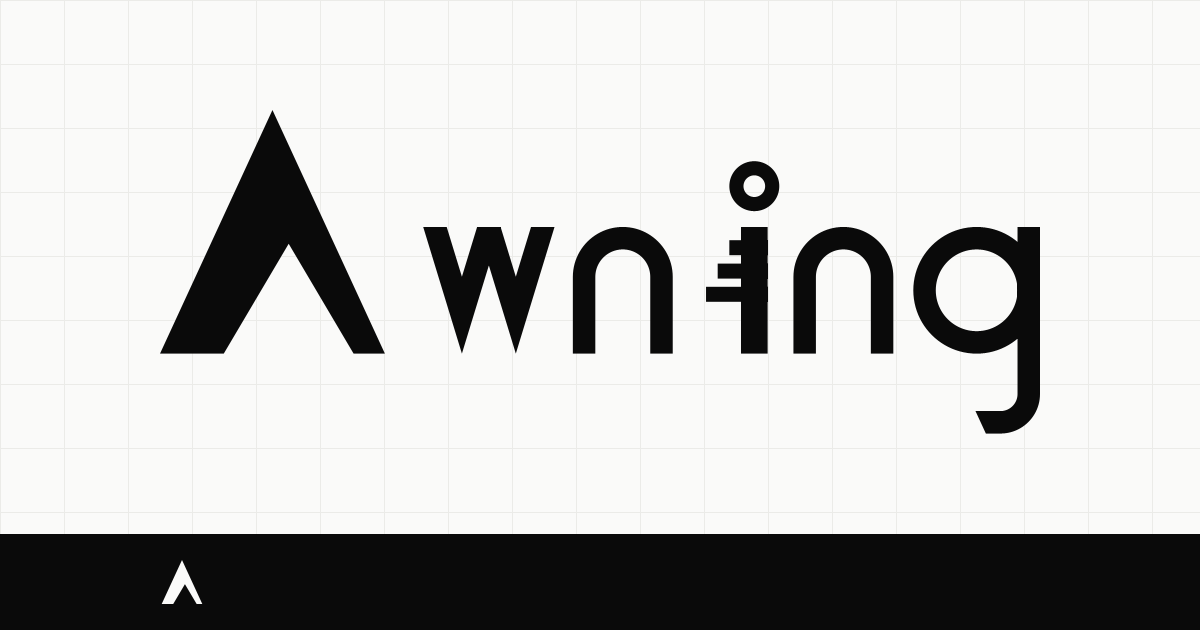
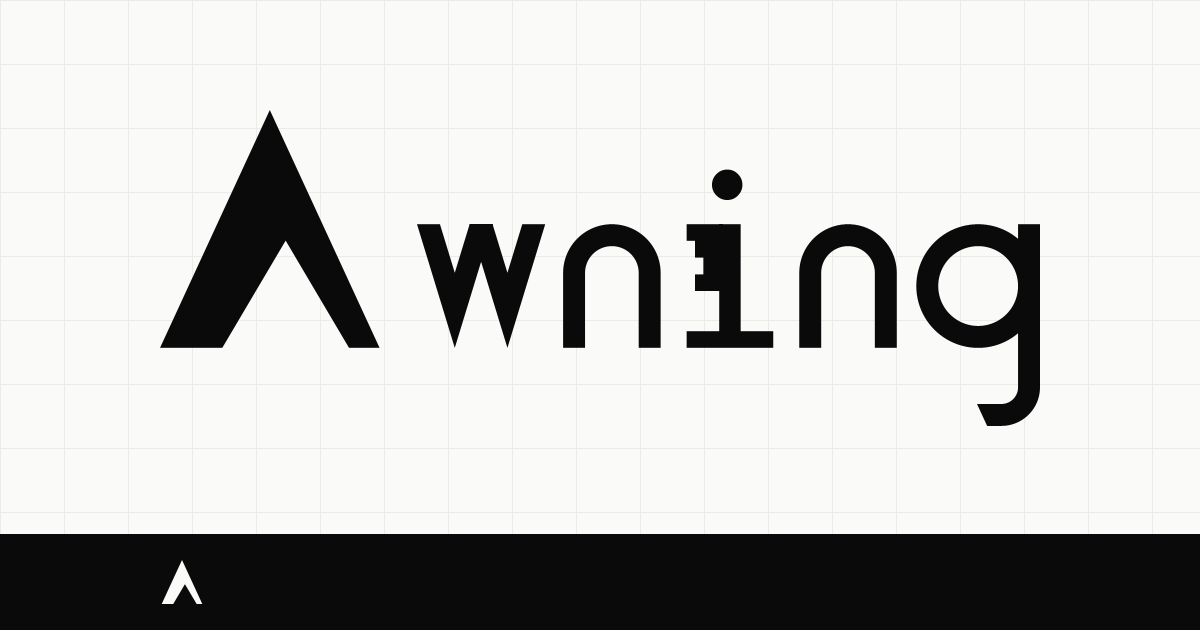
feat(brand): use the supplied key for the i
Replaces the key I drew with the one from awning-bit-jag-4t: a tittle for the
bow, a jagged bit, a blade on a flat foot. The bit's teeth alternate in and out,
which is what a key bit actually does — mine were three prongs stepping in one
direction, which reads as a stepped serif no matter how much room it gets.

Kept as artwork rather than code. brand/letter-i-key.svg is the drawing, and
make-logotype.mjs only fits it: scales its x-height to match the rest of the
lowercase, which lands its stem within a unit of the shared stem width because
it was drawn to these proportions already, and sets it on the shared baseline.
Nothing else is touched, so the key stays editable in a design tool.

Split into three paths rather than kept as one with three subpaths. The bit and
the blade overlap, and the two fill rules disagree about an overlap inside a
single path: nonzero fills it, even-odd punches a hole. As separate paths they
union under either rule, which matters because this repo has a renderer that is
not a browser. Verified numerically rather than by eye — a scan for interior
pixels below full coverage found none, in the glyph or the whole lockup, so
there is no hairline where the two abut either.

The key's baseline and x-height are written down twice, in the SVG's comment and
as constants in the generator, because neither can be recovered from the outline:
the tittle sits above the x-height and nothing marks the baseline. A test asserts
[…]

diff --git a/src/components/Brand.tsx b/src/components/Brand.tsx
@@ -36,7 +36,7 @@ export function LogoMark({ className }: BrandArtProps) {
  * The name drawn as letters, with the mark standing in for the capital A, and
  * the i drawn as a key.
  *
- * Ratio 2.72. The g's descender is the bottom 25% of the box, so
+ * Ratio 2.79. The g's descender is the bottom 25% of the box, so
  * the word sits high inside it: anything vertically centring this has to
  * compensate. See .logo-type in SiteNav.css.
  */
@@ -44,7 +44,7 @@ export function Logotype({ className }: BrandArtProps) {
   return (
     <svg
       className={className}
-      viewBox="0 0 1057.15 388.69"
+      viewBox="0 0 1082.69 388.69"
       fill="currentColor"
       aria-hidden="true"
       focusable="false"
@@ -53,14 +53,12 @@ export function Logotype({ className }: BrandArtProps) {
       <path d="M316.18 140.5L362.68 292.69L409.18 140.5L380.95 140.5L362.68 200.29L344.41 140.5Z" />
       <path d="M380.95 140.5L427.45 292.69L473.95 140.5L445.72 140.5L427.45 200.29L409.18 140.5Z" />
       <path d="M495.95 292.69L495.95 200.5C495.95 167.36 522.81 140.5 555.95 140.5C589.09 140.5 615.95 167.36 615.95 200.5L615.95 292.69L588.95 292.69L588.95 200.5C588.95 182.27 574.18 167.5 555.95 167.5C537.72 167.5 522.95 182.27 522.95 200.5L522.95 292.69Z" />
-      <path d="M713.95 61.5C730.52 61.5 743.95 74.93 743.95 91.5C743.95 108.06 730.52 121.5 713.95 121.5C697.38 121.5 683.95 108.06 683.95 91.5C683.95 74.93 697.38 61.5 713.95 61.5ZM713.95 78.5C706.77 78.5 700.95 84.32 700.95 91.5C700.95 98.67 706.77 104.5 713.95 104.5C721.13 104.5 726.95 98.67 726.95 91.5C726.95 84.32 721.13 78.5 713.95 78.5Z" />
-      <path d="M683.95 156.5L729.95 156.5L729.95 174.5L683.95 174.5Z" />
-      <path d="M669.95 184.5L729.95 184.5L729.95 202.5L669.95 202.5Z" />
-      <path d="M655.95 212.5L729.95 212.5L729.95 230.5L655.95 230.5Z" />
-      <path d="M697.95 140.5L729.95 140.5L729.95 292.69L697.95 292.69Z" />
-      <path d="M760.95 292.69L760.95 200.5C760.95 167.36 787.81 140.5 820.95 140.5C854.09 140.5 880.95 167.36 880.95 200.5L880.95 292.69L853.95 292.69L853.95 200.5C853.95 182.27 839.18 167.5 820.95 167.5C802.72 167.5 787.95 182.27 787.95 200.5L787.95 292.69Z" />
-      <path d="M981.05 140.5C1023.08 140.5 1057.15 174.57 1057.15 216.59C1057.15 258.62 1023.08 292.69 981.05 292.69C939.02 292.69 904.95 258.62 904.95 216.59C904.95 174.57 939.02 140.5 981.05 140.5ZM981.05 167.5C953.93 167.5 931.95 189.48 931.95 216.59C931.95 243.71 953.93 265.69 981.05 265.69C1008.17 265.69 1030.15 243.71 1030.15 216.59C1030.15 189.48 1008.17 167.5 981.05 167.5Z" />
-      <path d="M1030.15 140.5L1057.15 140.5L1057.15 341.19C1057.15 367.43 1035.88 388.69 1009.65 388.69L992.11 388.69L979.65 361.69L1009.65 361.69C1020.97 361.69 1030.15 352.52 1030.15 341.19L1030.15 140.5Z" />
+      <path d="M647.95 292.69L647.95 272.14L688.02 272.14L688.02 140.5L714.41 140.5L714.41 272.14L754.49 272.14L754.49 292.69Z" />
+      <path d="M647.95 140.5L691.86 140.5L691.86 222.73L658.23 222.73L658.23 202.17L668.51 202.17L668.51 181.61L658.23 181.61L658.23 161.05L647.95 161.05Z" />
+      <path d="M697.84 110.73C692.73 110.73 688.33 108.89 684.65 105.21C680.97 101.52 679.13 97.13 679.13 92.01C679.13 86.9 680.97 82.5 684.65 78.82C688.33 75.13 692.73 73.29 697.84 73.29C703.16 73.29 707.56 75.13 711.04 78.82C714.72 82.5 716.56 86.9 716.56 92.01C716.56 97.13 714.72 101.52 711.04 105.21C707.56 108.89 703.16 110.73 697.84 110.73Z" />
+      <path d="M786.49 292.69L786.49 200.5C786.49 167.36 813.35 140.5 846.49 140.5C879.63 140.5 906.49 167.36 906.49 200.5L906.49 292.69L879.49 292.69L879.49 200.5C879.49 182.27 864.72 167.5 846.49 167.5C828.26 167.5 813.49 182.27 813.49 200.5L813.49 292.69Z" />
+      <path d="M1006.59 140.5C1048.62 140.5 1082.69 174.57 1082.69 216.59C1082.69 258.62 1048.62 292.69 1006.59 292.69C964.56 292.69 930.49 258.62 930.49 216.59C930.49 174.57 964.56 140.5 1006.59 140.5ZM1006.59 167.5C979.47 167.5 957.49 189.48 957.49 216.59C957.49 243.71 979.47 265.69 1006.59 265.69C1033.71 265.69 1055.69 243.71 1055.69 216.59C1055.69 189.48 1033.71 167.5 1006.59 167.5Z" />
+      <path d="M1055.69 140.5L1082.69 140.5L1082.69 341.19C1082.69 367.43 1061.42 388.69 1035.19 388.69L1017.65 388.69L1005.19 361.69L1035.19 361.69C1046.51 361.69 1055.69 352.52 1055.69 341.19L1055.69 140.5Z" />
     </svg>
   )
 }

diff --git a/tests/brand.test.ts b/tests/brand.test.ts
@@ -82,9 +82,39 @@ describe('brand artwork', () => {
 
   it('inherits colour rather than hardcoding black', () => {
     // the lockup is reversed out of ink in the footer and the OG card's band
-    for (const file of ['brand/logo.svg', 'brand/awning-logotype.svg']) {
+    for (const file of [
+      'brand/logo.svg',
+      'brand/awning-logotype.svg',
+      'brand/letter-i-key.svg',
+    ]) {
       expect(read(file), file).toContain('fill="currentColor"')
       expect(read(file), file).not.toContain('fill="black"')
     }
+  })
+
+  it('agrees with the generator about where the key sits', () => {
+    /**
+     * The key's baseline and x-height cannot be recovered from its outline — the
+     * tittle is above the x-height and nothing marks the baseline — so both are
+     * written down twice: in the SVG's comment and as constants the generator
+     * scales by. If the drawing moves and only one copy is updated, the key gets
+     * placed on the wrong line, and it fails quietly: still a plausible logo,
+     * just a letter sitting slightly off the baseline.
+     */
+    const svg = read('brand/letter-i-key.svg')
+    const generator = read('scripts/make-logotype.mjs')
+
+    const documented = {
+      baseline: Number(svg.match(/baseline\s+y = ([\d.]+)/)?.[1]),
+      xHeightTop: Number(svg.match(/x-height top\s+y = ([\d.]+)/)?.[1]),
+    }
+    const used = {
+      baseline: Number(generator.match(/baseline: ([\d.]+)/)?.[1]),
+      xHeightTop: Number(generator.match(/xHeightTop: ([\d.]+)/)?.[1]),
+    }
+
+    expect(documented.baseline).toBeGreaterThan(0)
+    expect(documented.xHeightTop).toBeGreaterThan(0)
+    expect(used).toEqual(documented)
   })
 })
